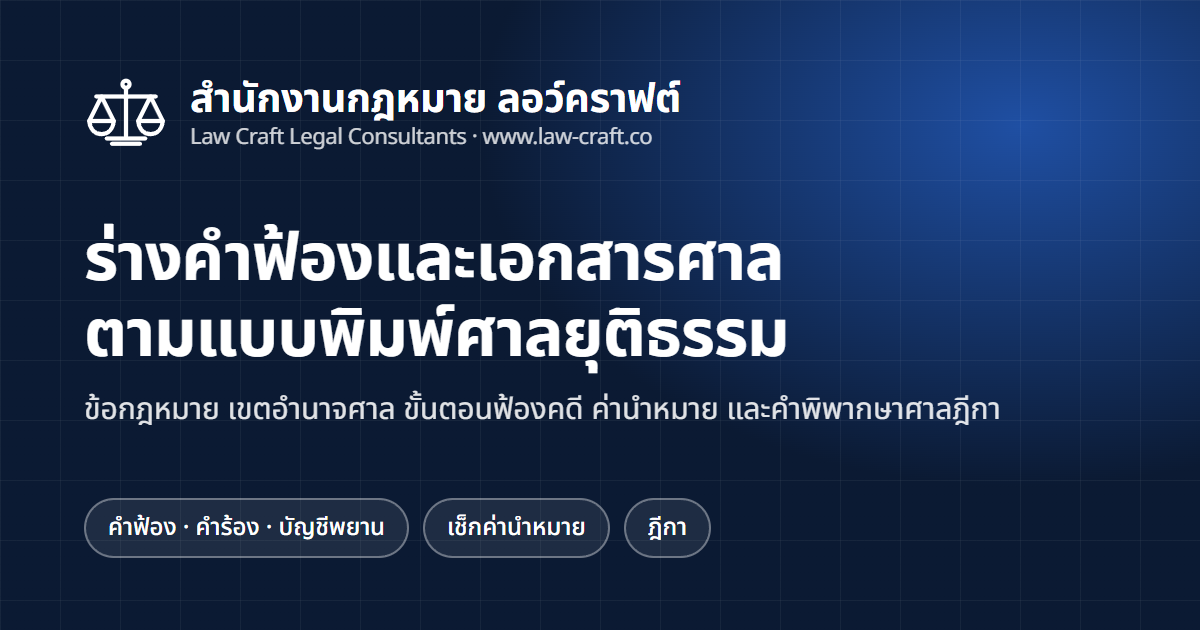
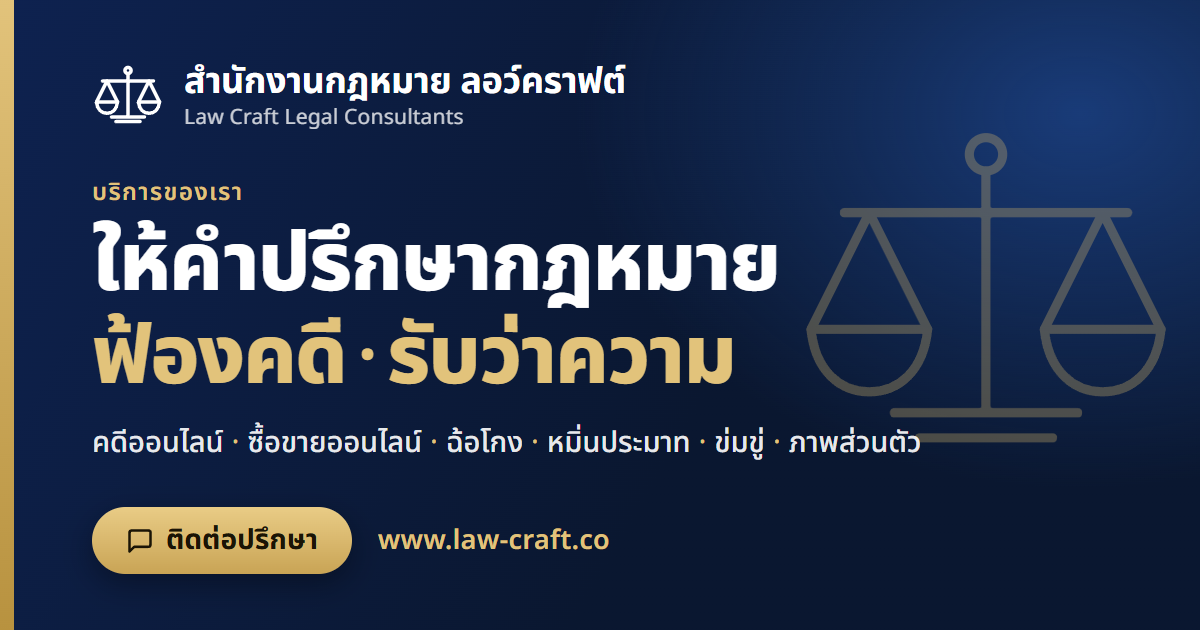
ภาพตัวอย่างลิงก์ใหม่: เน้นให้คำปรึกษากฎหมาย ฟ้องคดี รับว่าความ (คดีออนไลน์ ซื้อขายออนไลน์ ฉ้อโกง หมิ่นประมาท ข่มขู่ ภาพส่วนตัว) ไม่ชูเรื่องร่างคำฟ้อง + ข้อความ alt ของภาพให้ตรงกัน

diff --git a/public/service-fee/index.html b/public/service-fee/index.html
@@ -18,7 +18,7 @@
 <meta property="og:image" content="https://www.law-craft.co/og-image.png">
 <meta property="og:image:width" content="1200">
 <meta property="og:image:height" content="630">
-<meta property="og:image:alt" content="Law Craft — เช็กอัตราค่านำหมายศาลทั่วประเทศ">
+<meta property="og:image:alt" content="สำนักงานกฎหมาย ลอว์คราฟต์ — ให้คำปรึกษากฎหมาย ฟ้องคดี รับว่าความ">
 <meta name="twitter:card" content="summary_large_image">
 <meta name="twitter:image" content="https://www.law-craft.co/og-image.png">
 <meta name="twitter:title" content="เช็กอัตราค่านำหมาย ศาลทั่วประเทศ · Law Craft">

diff --git a/scripts/build-seo-pages.js b/scripts/build-seo-pages.js
@@ -716,7 +716,7 @@ function injectHome({ dist, site, items, provs, lawIds, lawSlug, lawClean, lawSh
 <meta property="og:image" content="${site}/og-image.png">
 <meta property="og:image:width" content="1200">
 <meta property="og:image:height" content="630">
-<meta property="og:image:alt" content="Law Craft — ร่างคำฟ้องและเอกสารศาลตามแบบพิมพ์ศาลยุติธรรม">
+<meta property="og:image:alt" content="สำนักงานกฎหมาย ลอว์คราฟต์ — ให้คำปรึกษากฎหมาย ฟ้องคดี รับว่าความ">
 <meta name="twitter:card" content="summary_large_image">
 <meta name="twitter:title" content="${esc(title)}">
 <meta name="twitter:description" content="${esc(desc)}">

diff --git a/scripts/seo-template.js b/scripts/seo-template.js
@@ -153,7 +153,7 @@ export function makeTemplate({ site, chrome }) {
 <meta property="og:image" content="${site}/og-image.png">
 <meta property="og:image:width" content="1200">
 <meta property="og:image:height" content="630">
-<meta property="og:image:alt" content="Law Craft — ร่างคำฟ้องและเอกสารศาลตามแบบพิมพ์ศาลยุติธรรม">
+<meta property="og:image:alt" content="สำนักงานกฎหมาย ลอว์คราฟต์ — ให้คำปรึกษากฎหมาย ฟ้องคดี รับว่าความ">
 <meta name="twitter:card" content="summary_large_image">
 <meta name="twitter:title" content="${t}">
 <meta name="twitter:description" content="${d}">

diff --git a/public/articles/index.html b/public/articles/index.html
@@ -16,6 +16,7 @@
 <meta property="og:image" content="https://www.law-craft.co/og-image.png">
 <meta property="og:image:width" content="1200">
 <meta property="og:image:height" content="630">
+<meta property="og:image:alt" content="สำนักงานกฎหมาย ลอว์คราฟต์ — ให้คำปรึกษากฎหมาย ฟ้องคดี รับว่าความ">
 <meta name="twitter:card" content="summary_large_image">
 <meta name="twitter:image" content="https://www.law-craft.co/og-image.png">
 <link rel="icon" type="image/svg+xml" href="/favicon.svg">

diff --git a/public/contact/index.html b/public/contact/index.html
@@ -16,6 +16,7 @@
 <meta property="og:image" content="https://www.law-craft.co/og-image.png">
 <meta property="og:image:width" content="1200">
 <meta property="og:image:height" content="630">
+<meta property="og:image:alt" content="สำนักงานกฎหมาย ลอว์คราฟต์ — ให้คำปรึกษากฎหมาย ฟ้องคดี รับว่าความ">
 <meta name="twitter:card" content="summary_large_image">
 <meta name="twitter:image" content="https://www.law-craft.co/og-image.png">
 <link rel="icon" type="image/svg+xml" href="/favicon.svg">

diff --git a/public/privacy/index.html b/public/privacy/index.html
@@ -16,6 +16,7 @@
 <meta property="og:image" content="https://www.law-craft.co/og-image.png">
 <meta property="og:image:width" content="1200">
 <meta property="og:image:height" content="630">
+<meta property="og:image:alt" content="สำนักงานกฎหมาย ลอว์คราฟต์ — ให้คำปรึกษากฎหมาย ฟ้องคดี รับว่าความ">
 <meta name="twitter:card" content="summary_large_image">
 <meta name="twitter:image" content="https://www.law-craft.co/og-image.png">
 <link rel="icon" type="image/svg+xml" href="/favicon.svg">
